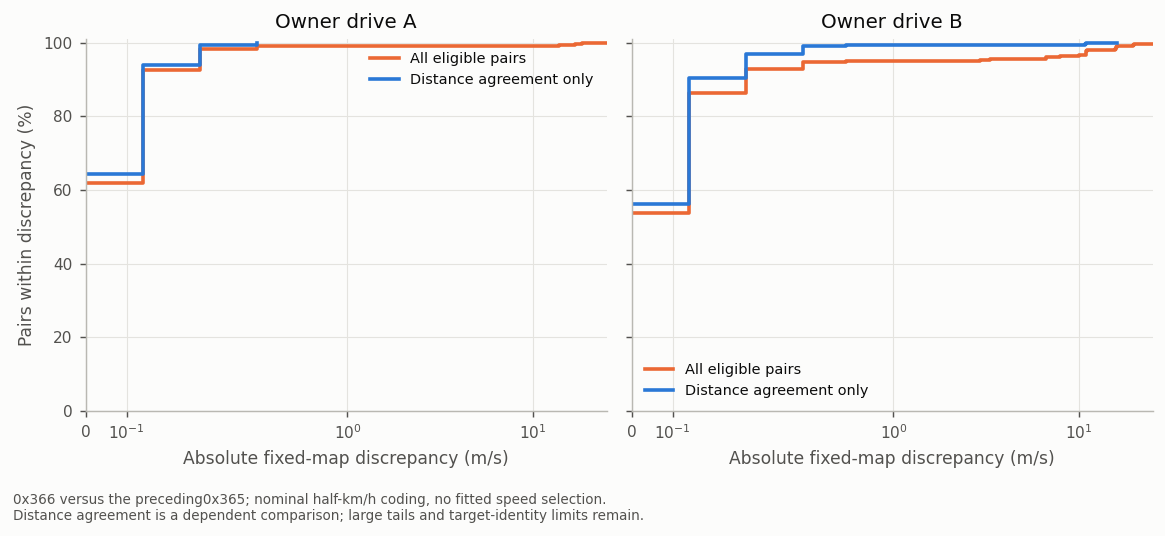
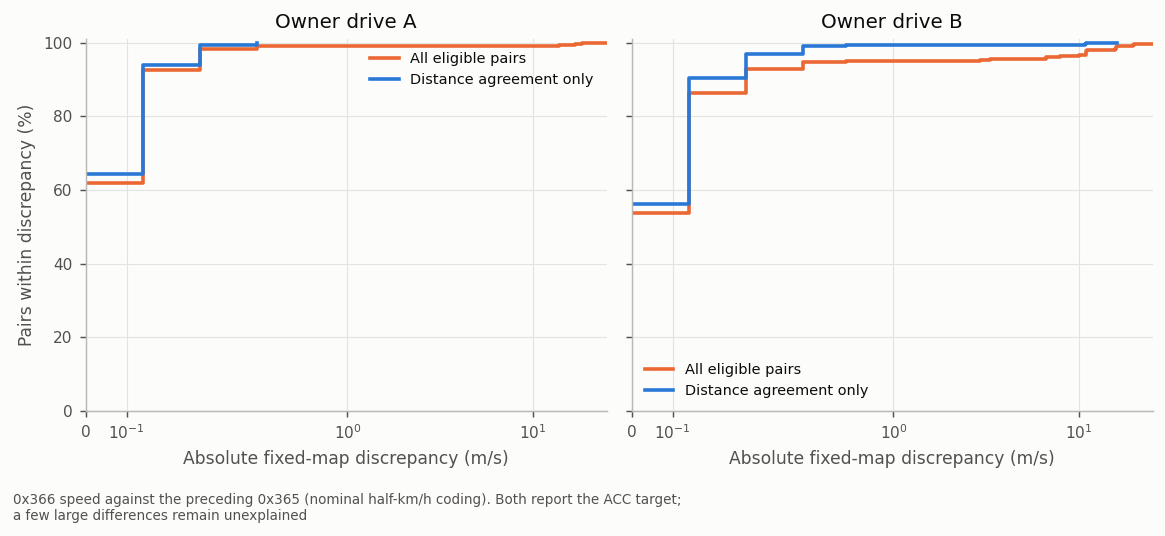
docs: compact the 0x366 section (field table), update README row and figure caption

Changed region(s): [[0.0, 0.9254, 0.5871, 0.9851]]

diff --git a/tools/make_analysis_figures.py b/tools/make_analysis_figures.py
@@ -1096,8 +1096,8 @@ def target_366_coding():
         ax.legend(fontsize=8)
     axes[0].set_ylabel("Pairs within discrepancy (%)")
     fig.tight_layout()
-    save(fig, "target_366_coding", "0x366 versus the preceding 0x365; nominal half-km/h coding, no fitted speed selection.\n"
-         "Distance agreement is a dependent comparison; large tails and target-identity limits remain.")
+    save(fig, "target_366_coding", "0x366 speed against the preceding 0x365 (nominal half-km/h coding). Both report the ACC target;\n"
+         "a few large differences remain unexplained")
 
 NUMBERS: dict = {}
 FIGURES = {f.__name__: f for f in (record_raster, field_map, vground_vs_ego, standstill_codes, lateral_hist, bev_density, ground_contact,

diff --git a/ars510/support.py b/ars510/support.py
@@ -251,7 +251,7 @@ def parse_0x23b(data: bytes) -> tuple[int, int, bool] | None:
 
 @dataclass(frozen=True)
 class Target366:
-    """Car-bus target report; nominal coding only, with no object-list identity."""
+    """Car-bus 0x366: the radar's ACC target re-quantized (docs/13)."""
     speed_code: int
     distance_code: int
     header_raw: int

diff --git a/docs/13_car_bus_messages.md b/docs/13_car_bus_messages.md
@@ -19,7 +19,7 @@ All nine run on the radar's crystal (the same clock fingerprint as its bus-1 mes
 | 0x283 | `PRE_COLLISION` / `DS11F01` | 33 Hz, 7 | `00 00 00 00 00 00 8C` | AEB brake force and state (`STATE` 3 = emergency braking) | ● idle, ◐ fields |
 | 0x33E | none | 5 Hz, 7 | `7F FF 00 80 00 xx 00` | target-gated fields, one rising with ego speed | ○ |
 | 0x365 | `DSU_CRUISE` / `DS11D70` | 5 Hz, 7 | `00 00 00 00 FC 00 00` | **ACC lead distance (m) and relative speed (km/h)** | ● |
-| 0x366 | `DS11D71` | 5 Hz, 7 | `50 00 7F FF 00 7A 00` | **ACC lead relative speed (≈ 0.5 km/h per code)** and a distance-like field | ◐ |
+| 0x366 | `DS11D71` | 5 Hz, 7 | `50 00 7F FF 00 7A 00` | **the ACC target again**: relative speed (0.5 km/h), distance (≈ 0.8 m) and lateral offset (0.34 m per code) | ◐ |
 | 0x411 | `PCS_HUD` / `DS12F02` | 1 Hz, 8 | `00 20 00 00 00 00 80 00` | PCS state, sensitivity, FCW and the blocked-radar / temperature / beam-alignment alerts | ● idle, ◐ alerts |
 | 0x494 | none | 1 Hz, 8 | `82 00 00 00 00 00 00 00` | constant | ○ |
 | 0x4FF | `FRD1N01` (front radar → gateway) | ~0.77 Hz, 8 | `3F 00 00 00 00 00 00 00` | front-radar node frame, `FRDNID` = 0x3F | ○ |
@@ -44,30 +44,24 @@ signed, negative when closing. The other bytes are zero. Both fields match the A
 
 This is opendbc's `DSU_CRUISE.LEAD_DISTANCE`, plus the Toyota name `D_VRCC` for byte 5.
 
-### 0x366: target relative speed and approximate distance (◐)
+### 0x366: the ACC target, re-quantized (◐)
 
-[Fixed coding evidence](../data/analysis/summaries/target_366_coding.json) supports MSB-first `16|9` as
-half-km/h relative-speed codes centred on 155: `vRel=(code−155)×5/36` m/s, negative when closing.
-`25|7` follows target distance at approximately .8 m/code. Bytes 2–3 equal `7FFF` for no target; the parser
-returns `None` for that word. `ars510.support.parse_0x366` preserves the raw codes and header/tail bytes
-and provides these nominal conversions.
+Fields count MSB-first from the first payload bit; `ars510.support.parse_0x366` returns them (`None` for the `7FFF` no-target word).
 
-Compared with the preceding 0x365 report within 120 ms, 92.0% / 95.4% of eligible pairs on two owner drives
-agree in distance within 1.5 m (790/456 pairs). That distance-only subset contains 727/435 pairs; fixed-speed
-median discrepancy is 0 m/s and p95 is .278 m/s on both. All-pair median range discrepancy is .4/.2 m.
-The speed RMS in the second drive's distance-matched subset is still 1.072 m/s because a few large outliers
-remain. Distance agreement is therefore a comparison gate, not target identity or a physical accuracy bound.
+| bits | field | coding |
+|---|---|---|
+| `16\|9` | relative speed | `(code − 155) × 0.5 km/h`, negative when closing |
+| `25\|7` | distance | ≈ 0.8 m per code (fit 0.79); 127 = no target |
+| `40\|5` | lateral offset | signed, −0.34 m per code (right positive); 15 = no target |
 
-![Fixed coding and retained tails](img/analysis/target_366_coding.png)
+Against the latest `0x235`/`0x237` on an owner drive (820 frames, 0.6 % outside tolerance) the residuals are 0.06 m/s, 0.26 m
+and 0.14 m, about the quantization of both frames: this is the ACC target again, not a second measurement or a Doppler field.
+Against the preceding 0x365 (two owner drives) 92 / 95 % of reports agree in distance within 1.5 m, with a speed p95 of
+0.28 m/s ([summary](../data/analysis/summaries/target_366_coding.json)); a few large speed differences remain unexplained.
+It arrives about 90 ms after 0x365. Byte 0 is 0x50 or 0x52, byte 4 bits 3-7 are undecoded speed / range-dependent flags,
+and the low three bits of byte 5 are constant. No profile reads this message.
 
-0x366 arrives about 90 ms after 0x365 on the observed publication schedule. Receipt spacing does not determine
-sensor latency. The report is the radar's ACC target again: against the latest `0x235`/`0x237` on an owner drive
-(820 frames with a mature target, 0.6 % outside tolerance) `16|9` follows the ACC relative speed at 0.140 m/s per code
-with zero code 154.7 (residual sd 0.06 m/s, about the quantization of both frames), `25|7` follows its distance at
-0.79 m per code (sd 0.26 m), and MSB-first `40|5`, a signed five-bit field, its lateral offset at −0.34 m per code, right
-positive (sd 0.14 m, r −0.995; code 15 means no target). So it is not a second measurement, an independent speed or a
-per-object Doppler. Byte 4 bits 3–7 are speed- and range-dependent flags (undecoded); the three low bits of byte 5 are
-constant. The standalone parser has no profile consumer. Byte 0 is 0x50 or 0x52; header/tail values are preserved as raw context.
+![0x366 against 0x365](img/analysis/target_366_coding.png)
 
 ### 0x343 from the radar (●)
 

diff --git a/data/README.md b/data/README.md
@@ -62,7 +62,7 @@ expanded 700-segment inventories, 20 held-out replay routes and closed-loop driv
 | [11 Profiles compared](../docs/11_profiles_compared.md) | `profiles_vs_vision` (every profile against vision only: driver-brake timing and anticipation, one-system braking requests, overrides, request error and jerk, forward-collision warnings, code lines of each layer and of the upstream radar interfaces, tuned constants) |
 | [12 Kalman speed filter](../docs/12_kalman_filter.md) | `tracker_association` (ACC target and summary matching: coverage emulations, the four replay steps, published lead distance against the vision lead), `fused_filter` (parameters, single and combined ablations, openpilot-file line counts, radard cascade), `hard_braking_review` (every hard radar-only episode judged by raw radar range, camera and driver; the summaries' planner effect), `oracle_reference` (each version against openpilot's planner on a hindsight lead: unnecessary and missed braking on confident moments, RMS), `lead_choice_guards` (2.3 lead handling: the 0.4 x ACC match and the path gate; 34-drive replays, the rejected 0 m gate, road-drive replays, the late-brake and turning-lead cases), `kalman_variants`, `kalman_response`, `summary_owner_case`, `summary_window_time`, `layer_ablation` |
 | [01 Radar bus](../docs/01_radar_bus.md) | `radar_disable_unfiltered` (openpilot's UDS radar disable on an unfiltered car: request and response, the radar's car-bus messages before and after, bus 1 rates and record CRCs through 26 min of alpha long, with a stock-ACC drive of the same car as the car-bus reference) |
-| [13 Car-bus messages](../docs/13_car_bus_messages.md) | `target_366_coding` (fixed half-km/h speed map and approximate range against preceding 0x365 on two owner drives; distance-only selection and retained tails), `radar_car_bus_messages` (idle payloads, 0x365 / 0x366 lead fields against the ACC target on three drives, the radar's stock-ACC 0x343 flags, filter hand-over timing, 0x320 bit 13 under the radar disable, 0x195 episodes, panda TX rules) |
+| [13 Car-bus messages](../docs/13_car_bus_messages.md) | `target_366_coding` (0x366 coding against the preceding 0x365 and the ACC target), `radar_car_bus_messages` (idle payloads, 0x365 / 0x366 lead fields against the ACC target on three drives, the radar's stock-ACC 0x343 flags, filter hand-over timing, 0x320 bit 13 under the radar disable, 0x195 episodes, panda TX rules) |
 | [08 openpilot integration](../docs/08_openpilot_integration.md) | `acc_anchor`, `driver_agreement_preregistered`, `openpilot_integration_replay`, `sunnypilot_installation`, `velocity_guards`, `far_settling`, `ramp_limiter`, `sunnypilot_profile_comparison`, `road_v21` (fused 2.1.0 on the road: build check, radar–camera agreement, ACC target presence, engaged braking review, replays against vision on the same drives, and the issue #66 numbers) |
 
 `figure_numbers.json` is written by `tools/make_analysis_figures.py` from the bundled tables; the others are imported

diff --git a/README.md b/README.md
@@ -112,7 +112,7 @@ other radar interfaces: [docs/11](docs/11_profiles_compared.md). The filter itse
 | **Object attributes**: lane assignment, class and its confidence, size, heading, lateral speed and acceleration, existence, uncertainties, camera association | ◐ decoded; physical names and scales of some fields provisional ([03](docs/03_slot_fields.md)) |
 | **Radar's ACC target** (0x235 / 0x237 / 0x239 / 0x23B, 50 Hz) | ● mapped bit for bit: closing speed 0.125 m/s, relative acceleration 0.125 m/s², distance 0.025 m and lateral 0.01 m per code, class, cycle timestamp; ◐ lateral speed and acceleration, in-path state, width; ◐ sent by the radar itself ([05](docs/05_acc_target_and_support.md)) |
 | **Target summaries** (0x190-0x194) | ● 0x192 / 0x194 = position of one internal track, in the object list's encoding; ● 0x190 counts them; ◐ 0x191 / 0x193 carry the class template (car / truck size) ([05](docs/05_acc_target_and_support.md)) |
-| **Car-bus target report** (0x366, 5 Hz) | ◐ half-km/h relative-speed coding and approximate .8 m distance codes; standalone parser, association required ([13](docs/13_car_bus_messages.md)) |
+| **Car-bus target report** (0x366, 5 Hz) | ◐ the ACC target again: relative speed 0.5 km/h, distance ≈ 0.8 m, lateral 0.34 m per code; standalone parser ([13](docs/13_car_bus_messages.md)) |
 | **Single-object stream** (0x680, 2 Hz) | ◐ one tracked object, mostly stationary roadside objects: range at 1/32 m, lateral position and speed, stationary / oncoming / moving flags ([05](docs/05_acc_target_and_support.md)) |
 | **Event pair** (0x195 / 0x196) | ● raw payloads; ◐ a short-time-to-collision state ([05](docs/05_acc_target_and_support.md#0x195--0x196-event-pair)) |
 | **Metadata cells** (0x85) | ◐ ten lane / road-boundary curves; ○ remaining cell fields ([04](docs/04_metadata_record_0x85.md)) |
